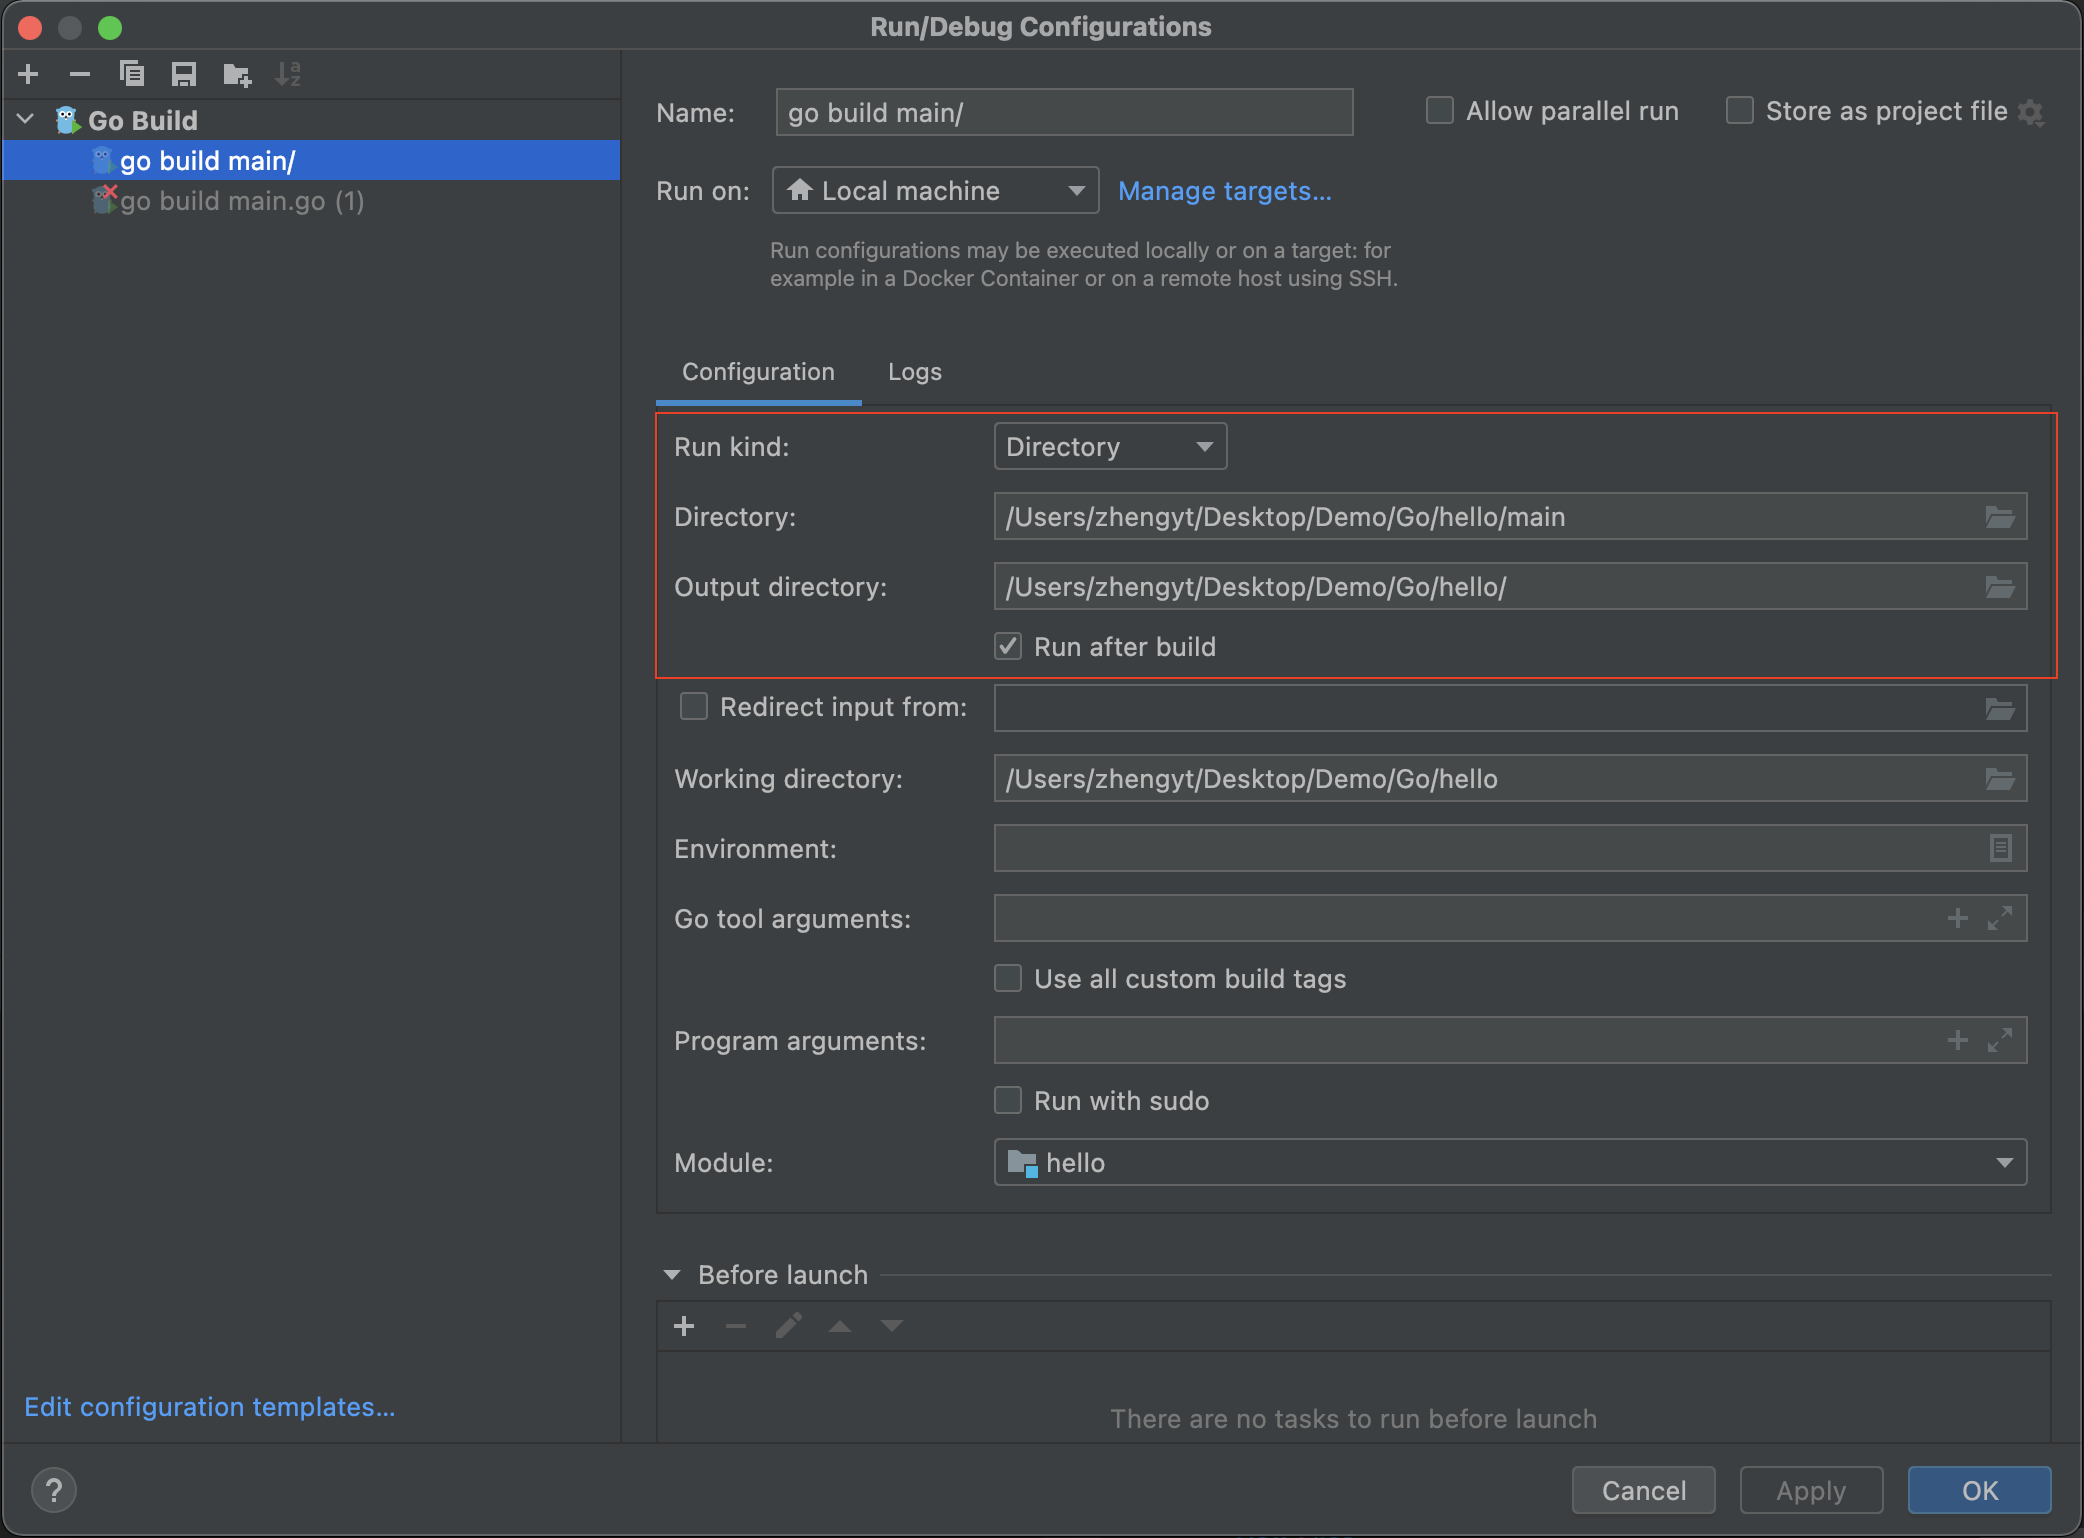
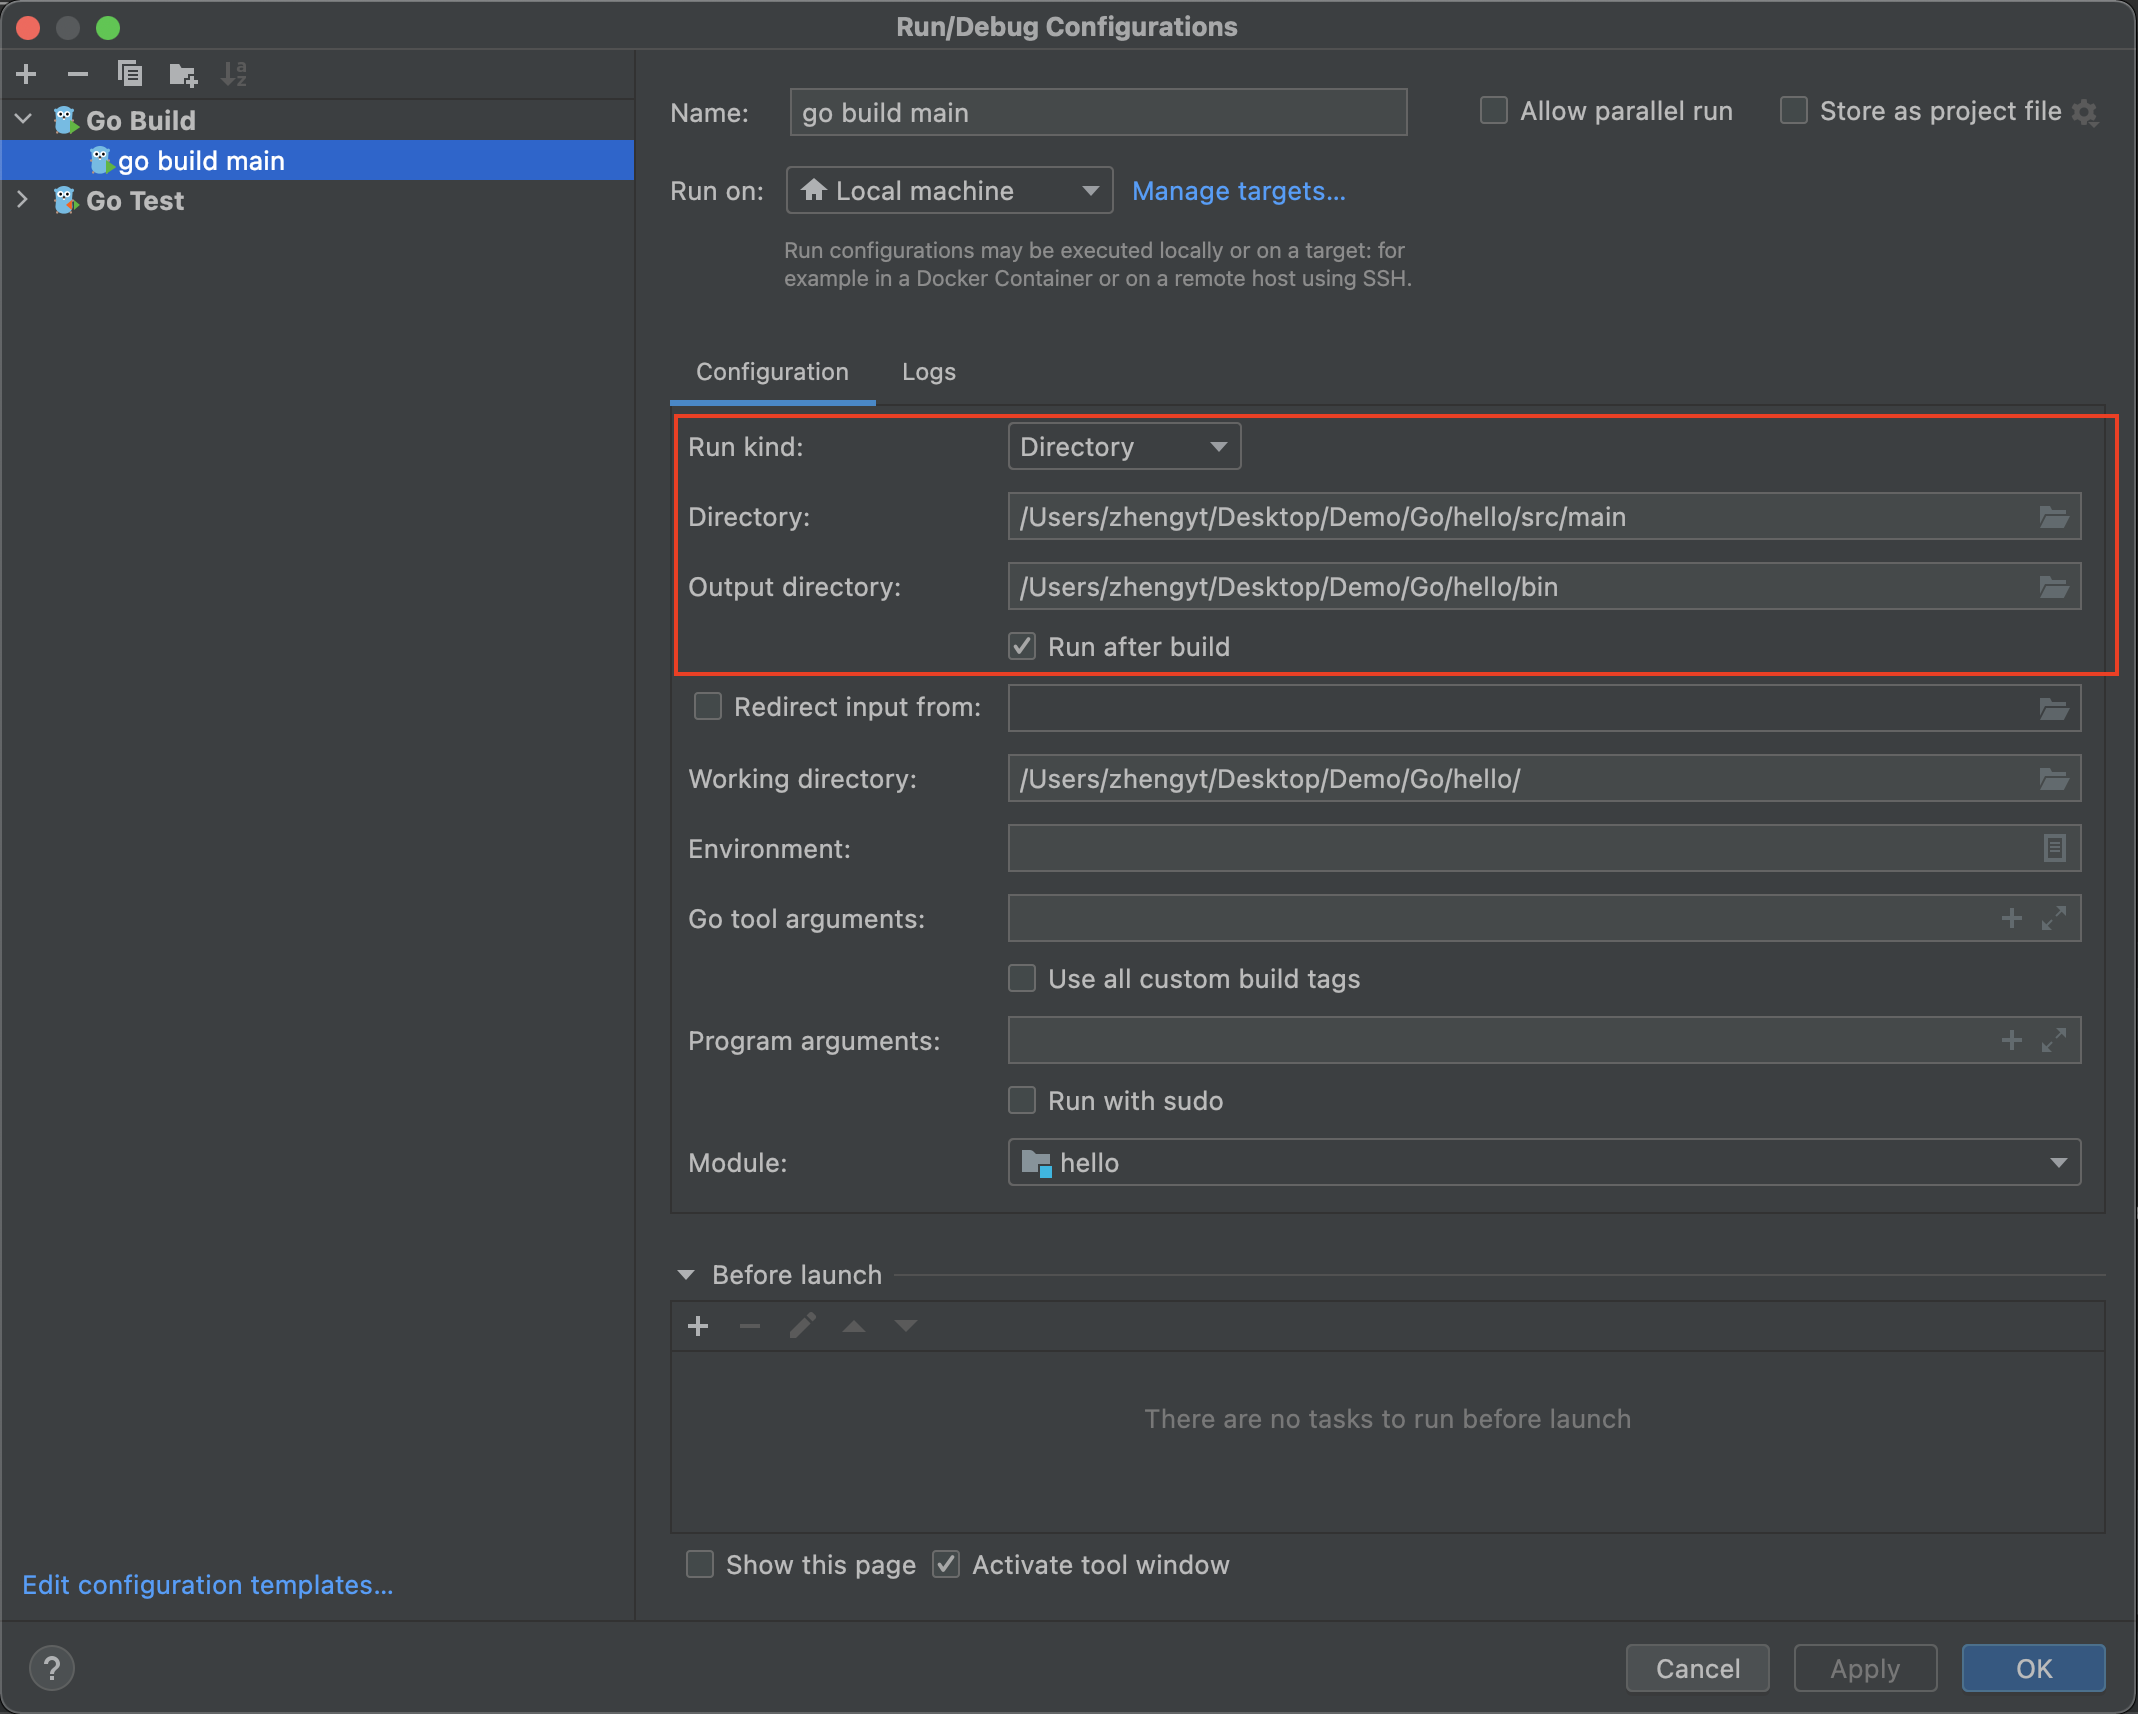
Site updated: 2022-04-22 11:09:41

diff --git a/2022/04/20/Go_command_line_arguments/index.html b/2022/04/20/Go_command_line_arguments/index.html
@@ -6,12 +6,12 @@
     <meta http-equiv="X-UA-Compatible" content="IE=edge">
     <meta name="HandheldFriendly" content="True">
     <meta name="viewport" content="width=device-width, initial-scale=1, maximum-scale=5" />
-    <meta name="description" content="有段时间没有学习 Go 的开发，加之最近换了电脑，导致 Go 的开发环境需要重新安装一遍，但时间隔得太久我甚至连编译方式都快忘光了😂……赶紧做个记录。今天遇到的小问题是在跑之前的一个 Demo 时，提示方法找不到： 1234# command-line-arguments.&#x2F;main.go:29:14: undefined: Add......  Demo 的目录结构是： 123456789h">
+    <meta name="description" content="有段时间没有学习 Go 的开发，加之最近换了电脑，导致 Go 的开发环境需要重新安装一遍，但时间隔得太久我甚至连编译方式都快忘光了😂……赶紧做个记录。今天遇到的小问题是在跑之前的一个 Demo 时，提示方法找不到： 1234# command-line-arguments.&#x2F;main.go:29:14: undefined: Add......  Demo 的目录结构是： 1234567891">
 <meta property="og:type" content="article">
 <meta property="og:title" content="Go 报错 command-line-arguments">
 <meta property="og:url" content="https://tommygirl.cn/2022/04/20/Go_command_line_arguments/index.html">
 <meta property="og:site_name" content="美滋滋">
-<meta property="og:description" content="有段时间没有学习 Go 的开发，加之最近换了电脑，导致 Go 的开发环境需要重新安装一遍，但时间隔得太久我甚至连编译方式都快忘光了😂……赶紧做个记录。今天遇到的小问题是在跑之前的一个 Demo 时，提示方法找不到： 1234# command-line-arguments.&#x2F;main.go:29:14: undefined: Add......  Demo 的目录结构是： 123456789h">
+<meta property="og:description" content="有段时间没有学习 Go 的开发，加之最近换了电脑，导致 Go 的开发环境需要重新安装一遍，但时间隔得太久我甚至连编译方式都快忘光了😂……赶紧做个记录。今天遇到的小问题是在跑之前的一个 Demo 时，提示方法找不到： 1234# command-line-arguments.&#x2F;main.go:29:14: undefined: Add......  Demo 的目录结构是： 1234567891">
 <meta property="og:locale" content="zh_CN">
 <meta property="og:image" content="https://yyblog-images-1258406742.cos.ap-beijing.myqcloud.com/command-line-arguments-0.png">
 <meta property="og:image" content="https://yyblog-images-1258406742.cos.ap-beijing.myqcloud.com/command-line-arguments-1.png">
@@ -159,7 +159,7 @@
 <figure class="highlight powershell"><table><tr><td class="gutter"><pre><span class="line">1</span><br><span class="line">2</span><br><span class="line">3</span><br><span class="line">4</span><br></pre></td><td class="code"><pre><span class="line"><span class="comment"># command-line-arguments</span></span><br><span class="line">./main.go:<span class="number">29</span>:<span class="number">14</span>: undefined: Add</span><br><span class="line">...</span><br><span class="line">...</span><br></pre></td></tr></table></figure>
 
 <p>Demo 的目录结构是：</p>
-<figure class="highlight tex"><table><tr><td class="gutter"><pre><span class="line">1</span><br><span class="line">2</span><br><span class="line">3</span><br><span class="line">4</span><br><span class="line">5</span><br><span class="line">6</span><br><span class="line">7</span><br><span class="line">8</span><br><span class="line">9</span><br></pre></td><td class="code"><pre><span class="line">hello</span><br><span class="line">└── main</span><br><span class="line">    ├── main.go</span><br><span class="line">    ├── loop<span class="built_in">_</span>use.go</span><br><span class="line">    ├── func<span class="built_in">_</span>use.go</span><br><span class="line">    ├── map<span class="built_in">_</span>use.go</span><br><span class="line">    ├── method<span class="built_in">_</span>use.go</span><br><span class="line">    ├── slice<span class="built_in">_</span>use.go</span><br><span class="line">    └── type<span class="built_in">_</span>use.go</span><br></pre></td></tr></table></figure>
+<figure class="highlight tex"><table><tr><td class="gutter"><pre><span class="line">1</span><br><span class="line">2</span><br><span class="line">3</span><br><span class="line">4</span><br><span class="line">5</span><br><span class="line">6</span><br><span class="line">7</span><br><span class="line">8</span><br><span class="line">9</span><br><span class="line">10</span><br><span class="line">11</span><br><span class="line">12</span><br></pre></td><td class="code"><pre><span class="line">hello</span><br><span class="line">├── bin</span><br><span class="line">├── pkg</span><br><span class="line">└── src</span><br><span class="line">    └── main</span><br><span class="line">        ├── func<span class="built_in">_</span>use.go</span><br><span class="line">        ├── loop<span class="built_in">_</span>use.go</span><br><span class="line">        ├── main.go</span><br><span class="line">        ├── map<span class="built_in">_</span>use.go</span><br><span class="line">        ├── method<span class="built_in">_</span>use.go</span><br><span class="line">        ├── slice<span class="built_in">_</span>use.go</span><br><span class="line">        └── type<span class="built_in">_</span>use.go</span><br></pre></td></tr></table></figure>
 
 <p>导致上面问题的原因是，Add 方法是在 type_use.go 内定义的，但是编译的时候只编译了 main.go 文件…<br>如果你使用的 IDE 也是 GoLand，可以尝试这样修改一下——修改编译方式:</p>
 <p>1、打开 Edit Configurations…</p>
